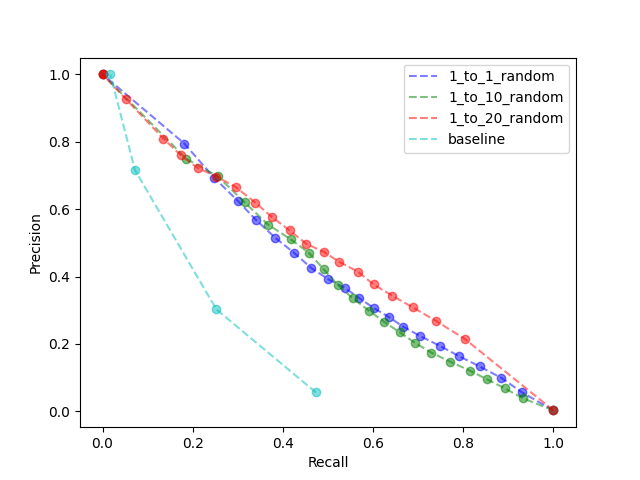
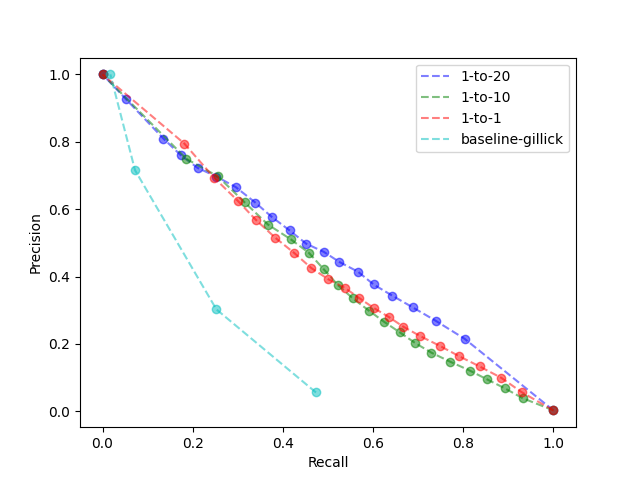
docs(thesis): improved experiment one and updated prec-recall plots

diff --git a/Thesis/main.tex b/Thesis/main.tex
@@ -90,12 +90,12 @@ In \texttt{filtered}-mode, a user is automatically unmuted when laughter or appl
 The motivation behind this feature is a more engaging speaker experience in virtual conferences. The project's supervisor is regularly involved in such conferences and wishes that reactions like laughter and applause were audible to him.
 
 To achieve the original goal, a real-time machine learning model detecting laughter and applause is required.  
-This project narrows the scope to a machine learning model for laughter detection. Real-time constraints are considered theoretically but adapting the model implementation for real-time usage is left for future work.
+This project narrows the scope to a machine learning model for laughter detection. Real-time constraints are considered theoretically (\autoref{sec:real-time}) but adapting the model implementation for real-time usage is left for future work.
 The project was renamed to \textit{A machine learning model for laughter detection} as the focus of the project was set on laughter detection; the beginning of the thesis briefly covers some aspects of applause detection. 
 
 Due to poor results of the final model, this thesis outlines the process I have taken, issues I faced and states my final hypothesis about the results: 
 
-\textit{``A significant number of non-transcribed regions in the ICSI corpus are not actually silence; they are quieter recordings of speech by other participants."}
+\textit{``A significant number of non-transcribed regions in the ICSI corpus are not actually silence; they are quieter recordings of speech by other participants. Thus, the assumption that non-transcribed regions and laughter can be easily distinguished is wrong."}
 
 The main achievements of this project are:
 \begin{enumerate}
@@ -111,15 +111,15 @@ The main achievements of this project are:
 \end{enumerate}
 
 
-The thesis starts off with a review of existing approaches about laughter and applause detection (\autoref{cha:bg}). It introduces some evaluation metrics used and gives a more detailed view of the model introduced by \citet{gillick2021robust} which is the foundation for my work. \autoref{cha:model-evaluation} evaluates the pre-trained model by \citet{gillick2021robust}, trained on the Switchboard corpus \citep{switchboard-corpus}, on the ICSI corpus \citep{morgan2001meeting}. The evaluation was revised throughout the project. This chapter provides a comparison of these revisions and an analysis of the overall poor performance of the model, which was made at the time of evaluation and does not include my final insights about the corpus.
+The thesis starts off with a review of existing approaches about laughter and applause detection (\autoref{cha:bg}). It introduces some evaluation metrics used and gives a more detailed view of the model introduced by \citet{gillick2021robust} which is the foundation for my work. \autoref{cha:model-evaluation} takes the best model from \citet{gillick2021robust}, trained on the Switchboard corpus \citep{switchboard-corpus}, and evaluates it on the ICSI corpus \citep{morgan2001meeting}. The evaluation was revised throughout the project. \autoref{cha:model-evaluation} includes a comparison of these revisions and an analysis of the overall poor performance of the model, which was made at the time of evaluation and does not include my final insights about the corpus.
 
 Due to the poor performance described in \autoref{cha:model-evaluation}, I retrained the model on the ICSI corpus. \autoref{cha:retraining} outlines how I first failed to use the existing training code from \citet{gillick2021robust} and then adapted it using \texttt{Lhotse} \citep{zelasko2021lhotse}, a new audio processing library, which I ended up contributing to \autoref{app:lhotse-contrib}.
 
-\autoref{cha:experiments} presents experiments investigating the impact of training data on the model output. It also compares the newly trained models with the original model evaluated in \autoref{cha:model-evaluation}. We find that models retrained on the ICSI corpus perform significantly better than the pre-trained model by \citet{gillick2021robust}, trained on the Switchboard corpus. Nevertheless, the model performance remains unusable. Therefore, \autoref{sec:silence-regions} includes some manual investigation of the corpus data. In hindsight, these experiments should have been conducted earlier. 
+\autoref{cha:experiments} presents experiments investigating the impact of training data on the model output. It also compares the newly trained models with the original model evaluated in \autoref{cha:model-evaluation}. We find that models retrained on the ICSI corpus perform significantly better than the pre-trained model by \citet{gillick2021robust}, trained on the Switchboard corpus. Nevertheless, the model performance remains unusable for integration in a video call system. Therefore, \autoref{sec:silence-regions} includes some manual investigation of the corpus data. In hindsight, these experiments should have been conducted earlier. 
 
 Lastly, \autoref{cha:practicality} investigates the practicality of the \texttt{filtered} option using laughter detection within a video call system; this includes real-time and privacy considerations as well as alternative solutions. The chapter concludes with suggestions for future work and a latency estimate of the model used in this thesis for future reference. 
 
-Throughout the report I regularly mention discussions. These refer to the biweekly meetings with my first and second supervisor, where I presented my progress. For each meeting I prepared a set of slides which are available at \href{https://github.com/LasseWolter/honours-project-21-22/tree/main/Meeting_Notes}{this github repository}.
+Throughout the report I regularly mention discussions. These refer to the biweekly meetings with my first and second supervisor, where I presented my progress. For each meeting I prepared a set of slides which are available at \href{https://github.com/LasseWolter/honours-project-21-22/tree/main/Meeting_Notes}{this public github repository}.
 The final laughter recognition codebase is published \href{https://github.com/LasseWolter/laughter-detection-icsi}{here}.
 
 
@@ -622,8 +622,8 @@ The performance of this model trained on different subsets of the ICSI corpus is
 
 \chapter{Investigating the Impact of Training Data on Model Performance} \label{cha:experiments}
 Representative training data is essential for machine learning. Training on the whole ICSI corpus would take a long time and was not feasible for my project.
-Thus, the following experiments investigate how the selection of a corpus-subset impacts the model's performance. 
-Due to significant time spent on task already outlined in the thesis, I did not have the time to do an exhaustive grid search. Hence, the results of these experiments should be considered as pointers for future research, not an optimal solution.
+Thus, the following experiments investigate how the selection of a corpus-subset for training impacts the model's performance. 
+Due to significant time spent on task already outlined in the thesis, the following experiments do not include exhaustive grid searches. Hence, the results of these experiments should be considered as pointers for future research, not an optimal solution.
 
 The structure of training data was investigated in two dimensions: 
 \begin{enumerate}
@@ -634,66 +634,73 @@ The structure of training data was investigated in two dimensions:
 All evaluations in this section are done on the development set of the ICSI corpus as defined in \autoref{sec:preprocessing}.
 
 \section{Experiment 1 - Class Balance} \label{sec:exp-1}
-In the first set of experiments, different ratios between laughter and non-laughter segments in the training data were evaluated. 
-I tried three different ratios between laughter and non-laughter segments: 1-to-1, 1-to-10 and 1-to-20.
-All samples had a duration of one second and no subsampling or feature augmentation was applied during training.
-The non-laughter segments were at random from all non-laughter segments, without considering the subclass. 
-A fixed distribution between these subclasses is investigated in \autoref{sec:exp2}.
+In the first set of experiments evaluates different ratios between laughter and non-laughter segments in the training data.
+Three different ratios between laughter and non-laughter segments are compared with the pre-trained model by \citet{gillick2021robust}: 1-to-1, 1-to-10 and 1-to-20.
+The sample duration is one second, as also used by \citet{gillick2021robust}. The feature shape differs from the pre-trained model. \citet{gillick2021robust} use mel spectrograms of shape 44x128 whereas the newly trained models uses a shape of 100x44.
+Further, neither subsampling nor feature augmentation was applied during training which helped \citet{gillick2021robust} to achieve minor performance improvements.
+I initially planned to investigate these three dimensions further: feature shape, subsampling and feature augmentation. 
+Due to time constraint I did not conduct such experiments, which leaves this task for future work. 
+
+The non-laughter segments are sampled at random from all non-laughter segments, without considering the subclass. 
+\autoref{sec:exp2} investigates a fixed distribution between these subclasses. 
 
 % The non-laughter segments were selected on a random basis from the remaining audio tracks after subtracting the laughter and invalid regions (\autoref{table:segment-types}). 
 
 \subsection{Method}
-To select non-laughter segments across a variety of meetings \verb|create_data_df| uses the following selection process.
+To select non-laughter segments across a variety of meetings, \verb|create_data_df| uses the following selection process.
 For each laughter segment, a channel within the same meeting is selected at random.
 A non-laughter segment of the same duration as the laughter segment is sampled from this channel.
 If the laughter segment is longer than one second, both laughter and non-laughter segments are truncated to a random one-second region of their segment. 
 If the segment is shorter than one second, it is stored unmodified and padded to one second length during feature computation.
 All these segments are stored in a table as explained in \autoref{sec:ml-data-pipeline}.
-
 In contrast to random sampling across all meeting, this approach guarantees that the training data holds non-laughter segments from all meetings containing laughter. 
+
 \subsection{Results} \label{sec:exp1-res}
 
 \begin{figure}[h!]
     \centering
     \includegraphics[width = 3.8in]{imgs/prec-recall/exp1-random/dev_compare_class_balance_dev_set.png}
-    \caption{Precision-Recall-Curve for different ratios between laughter and non-laughter based on 21 evenly spaced thresholds from 0 to 1. Baseline is given by the model from \citet{gillick2021robust} evaluated on the development set (note: the evaluation in \autoref{fig:initial-conf-matrix} used the whole ICSI corpus).}
+    \caption{Precision-Recall-Curve for different ratios between laughter and non-laughter based on 21 evenly spaced thresholds from 0 to 1.  The baseline, given by the model from \citet{gillick2021robust} evaluated the development set, only has four data points for thresholds [0.2,0.4,0.6,0.8], because it uses the initial evaluation from \autoref{cha:model-evaluation}.}
     \label{fig:prec-recall-rand}
 \end{figure}
 
-\autoref{fig:prec-recall-rand} compares the performance of the newly trained models with the baseline, which is the evaluation on the pre-trained model from \autoref{cha:model-evaluation}.
+\autoref{fig:prec-recall-rand} compares the performance of the newly trained models with the baseline, the pre-trained model by \citet{gillick2021robust} evaluated on the development set.
 The data points displayed in \autoref{fig:prec-recall-rand} are precision and recall for 21 evenly spaced thresholds from 0 to 1.
 All models trained on the ICSI corpus outperform the baseline.
-There is little differences between the three new models.
-It is not possible to identify a best performing model since different models obtain the highest precision for different recalls.
+Overall there is little differences between the three new models, but for $mathtt{recall} > 0.3$ the 1-to-20 model performs best. 
 
-\autoref{fig:conf-matrix-rand} shows a confusion matrix for different thresholds to deepen the understanding of the used classification. 
-A row full of zeros indicates no laughter predictions for this threshold.
-Most misclassifications are in silence regions, regions that have no transcription. Other than that we note that the outcomes for 1-to-1 and 1-to-10 ratios are quite similar whereas 1-to-20 diverges from the two. Disregarding the thresholds and considering only classification accuracies, the confusions of 1-to-20 are similar to the other two: e.g. threshold 0.3 for 1-to-20 and 0.6 for 1-to-1 and 1-to-10.
+\autoref{fig:conf-matrix-rand} shows a confusion matrix for different thresholds to deepen the understanding of the misclassified laughter samples. Note that the baseline is not same confusion matrix as \autoref{fig:initial-conf-matrix} because this time we only evaluate on the development set.
+For all newly trained models most misclassifications are in silence regions, regions that have no transcription. 
+In contrast, the baseline classifies more laughter samples as speech than silence. Generally, we note that there is only a small amount of samples located in noise regions, the baseline has almost none.
+The 1-to-20 model has the least speech samples across all thresholds, except for threshold 0.8 where the baseline has 100\% precision, i.e. all predicted laughter samples are indeed laughter samples.
 
 
 \begin{figure}[h!]
 \begin{tabular}{cc}
 \hspace*{-2cm}                                                           
-\subfloat[1-to-1]{\includegraphics[width = 3.5in]{imgs/conf_matrix/exp1-random/1_to_1_random.png}} &
+\subfloat[1-to-20]{\includegraphics[width = 3.5in]{imgs/conf_matrix/exp1-random/1_to_20_random.png}} &
 \hspace*{-1cm}                                                           
 \subfloat[1-to-10]{\includegraphics[width = 3.5in]{imgs/conf_matrix/exp1-random/1_to_10_random.png}}\\ 
 \hspace*{-2cm}                                                           
-\subfloat[1-to-20]{\includegraphics[width = 3.5in]{imgs/conf_matrix/exp1-random/1_to_20_random.png}} &
+\subfloat[1-to-1]{\includegraphics[width = 3.5in]{imgs/conf_matrix/exp1-random/1_to_1_random.png}} &
 \hspace*{-1cm}                                                           
-\subfloat[baseline]{\includegraphics[width = 3.5in]{imgs/conf_matrix/exp1-random/baseline.png}}\\ 
+\subfloat[baseline-gillick]{\includegraphics[width = 3.5in]{imgs/conf_matrix/exp1-random/baseline.png}}\\ 
 \end{tabular}
-\caption{Confusion matrices for different ratios between laughter and non-laughter. \confmatrixcaption. Baseline is given by the model from \citet{gillick2021robust} evaluated on the development set (note: \autoref{fig:initial-conf-matrix} was evaluated on the whole ICSI corpus).}
+\caption{Confusion matrices for different ratios between laughter and non-laughter. \confmatrixcaption Baseline is given by the model from \citet{gillick2021robust} evaluated on the development set (note: \autoref{fig:initial-conf-matrix} was evaluated on the whole ICSI corpus).}
 \label{fig:conf-matrix-rand}
 \end{figure}
 
 \subsection{Analysis} 
 The purpose of the experiment was to investigate different class balances. 
-The precision-recall curve (\autoref{fig:prec-recall-struc}) does not give much insight into this, as all models show a similar performance.
+The precision-recall curve (\autoref{fig:prec-recall-struc}) suggests that the 1-to-20 ratio gives the best performance, even though put into context, the performance is still poor. 
 All three models trained on the ICSI perform significantly better than the baseline from \citet{gillick2021robust} which was trained on the Switchboard dataset (as in \autoref{cha:model-evaluation}).
 This behaviour is expected and aligns with findings from \citet{gillick2021robust} (\autoref{fig:gillick-results}). A model evaluated on the same dataset it was trained on performs better than a model trained on a different dataset. 
 
-Another insight is deduced from the confusion matrices. Whereas the baseline has an even split between speech and silence, the three newly trained models rarely misclassify speech. 
-The non-transcribed regions are the main source of misclassification. This raises the same question as in the initial evaluation. Why is the model not able to confidently separate laughter from silence?
+Another insight is deduced from the confusion matrices. Whereas the baseline has more misclassified speech than silence segments, the three newly trained models misclassify speech less often. 
+In contrast, the newly trained models often misclassify silence regions, regions with no transcription, as laughter.
+Evaluating the pre-trained model by \citet{gillick2021robust} on the whole ICSI corpus (\autoref{cha:model-evaluation}) showed a non negligible amount of misclassifications in silence regions. 
+These newly trained models make this problem even more apparent and raise the question, why the model is not able to confidently separate laughter from silence.
+Lastly, the 100\% precision of the pre-trained model for a threshold of 0.8 should be seen in context. A precision of 100\% alone does not mean a good model performance as described in \autoref{sec:acc-prec-rec}. Looking at \autoref{fig:prec-recall-rand}, this threshold corresponds to the light blue data point in the top left corner. This shows that this threshold is close to one extreme of the precision recall curve where precision is 100\% and recall is 0\%. Future work could investigate why the pre-trained model already reaches this extreme at a threshold of 0.8, but compared to other future tasks I consider this as less important.
 
 \section{Experiment 2 - Non-laughter Diversity} \label{sec:exp2}
 The second set of experiments investigates the impact of the different types of non-laughter on the model performance. 
